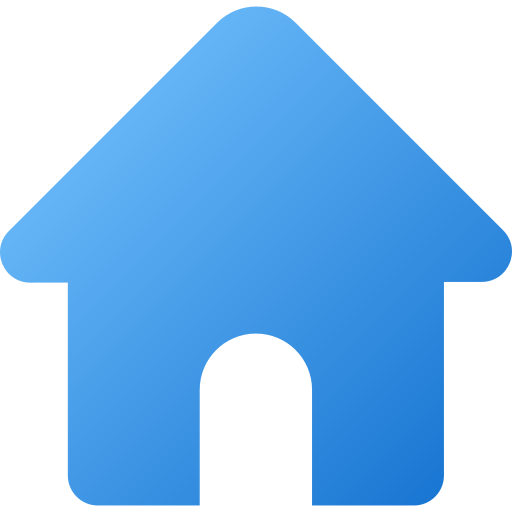
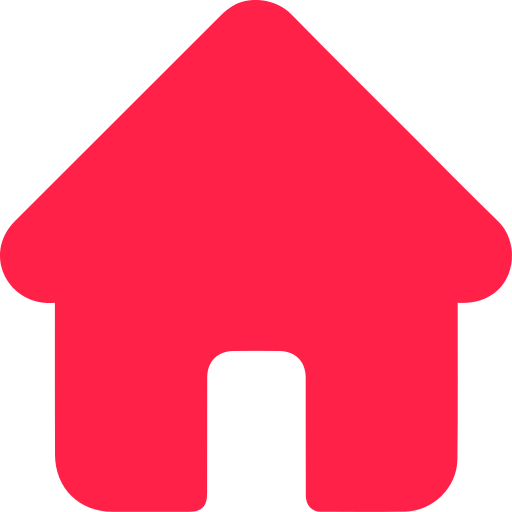
Home button added

diff --git a/pages/CssPage.html b/pages/CssPage.html
@@ -91,7 +91,14 @@
       </div>
     </div>
     <div class="container mx-auto p-5">
-      <section class="mb-10">
+      <a href="../index.html"
+        ><span
+          class="border-b pb-1 cursor-pointer flex items-center w-20 rounded-md p-1"
+          ><img src="../images/home.png" width="18px" />
+          <p class="ml-2 text-gray-100">Home</p></span
+        ></a
+      >
+      <section class="mb-10 mt-5">
         <h2 class="text-3xl font-bold mb-4">Introduction to CSS</h2>
         <p class="mb-4">
           CSS (Cascading Style Sheets) is used to control the style and layout

diff --git a/pages/htmlPage.html b/pages/htmlPage.html
@@ -175,7 +175,14 @@
     </div>
 
     <div class="container mx-auto p-5">
-      <section class="mb-10">
+      <a href="../index.html"
+        ><span
+          class="border-b pb-1 cursor-pointer flex items-center w-20 rounded-md p-1"
+          ><img src="../images/home.png" width="18px" />
+          <p class="ml-2 text-gray-100">Home</p></span
+        ></a
+      >
+      <section class="mb-10 mt-5">
         <h2 class="text-3xl font-bold mb-4">Introduction to HTML</h2>
         <p class="mb-4">
           HTML (HyperText Markup Language) is the standard markup language for

diff --git a/pages/javascriptPage.html b/pages/javascriptPage.html
@@ -92,7 +92,14 @@
     </div>
 
     <div class="container mx-auto p-5">
-      <section class="mb-10">
+      <a href="../index.html"
+        ><span
+          class="border-b pb-1 cursor-pointer flex items-center w-20 rounded-md p-1"
+          ><img src="../images/home.png" width="18px" />
+          <p class="ml-2 text-gray-100">Home</p></span
+        ></a
+      >
+      <section class="mb-10 mt-5">
         <h2 class="text-3xl font-bold mb-4">Introduction to JavaScript</h2>
         <p class="mb-4">
           JavaScript is a versatile, high-level programming language that

diff --git a/index.html b/index.html
@@ -366,7 +366,7 @@
         <div
           class="px-4 py-2 bg-gray-800 text-white rounded-md hover:bg-gray-700 transition duration-300"
         >
-          <img src="./images/move.png" width="10px" />
+          <img src="../images/move.png" width="20px" title="Go to Top" />
         </div>
       </a>
 
